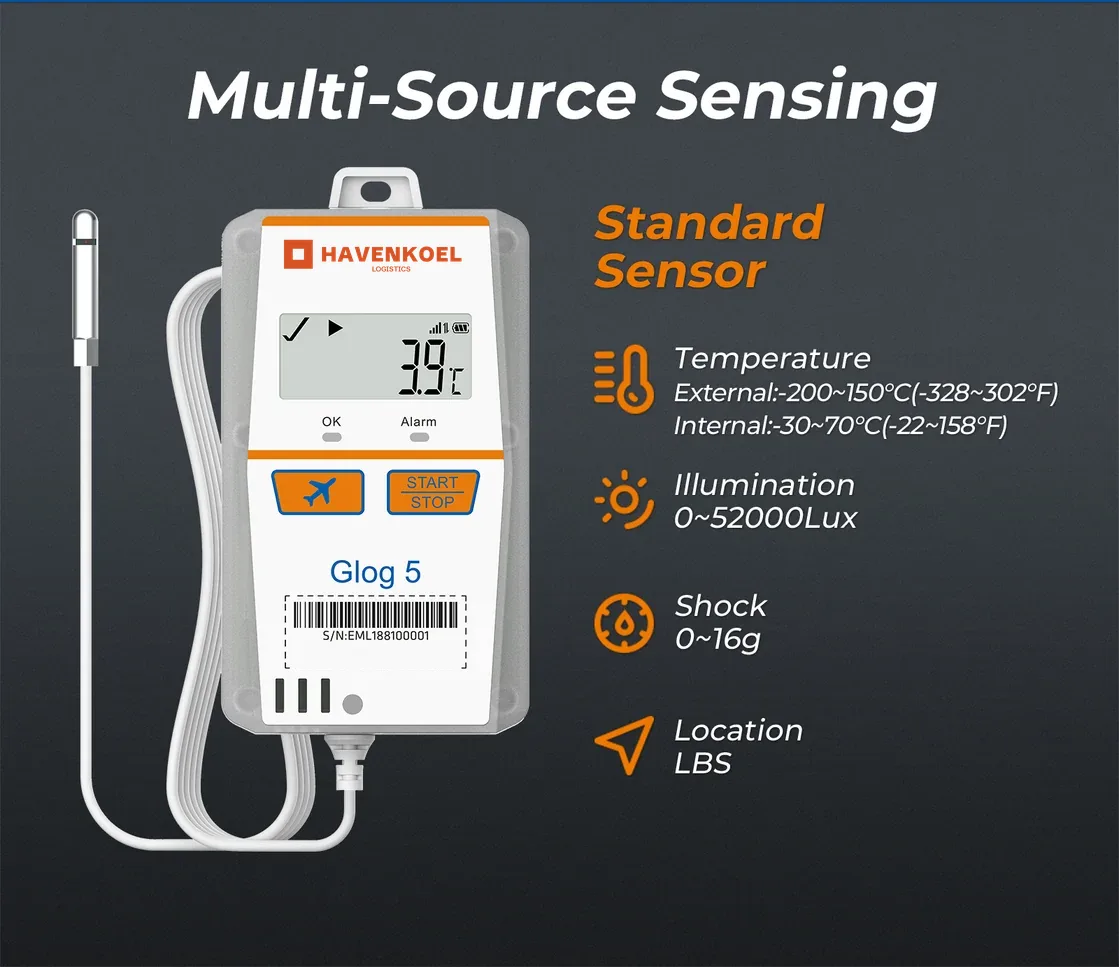
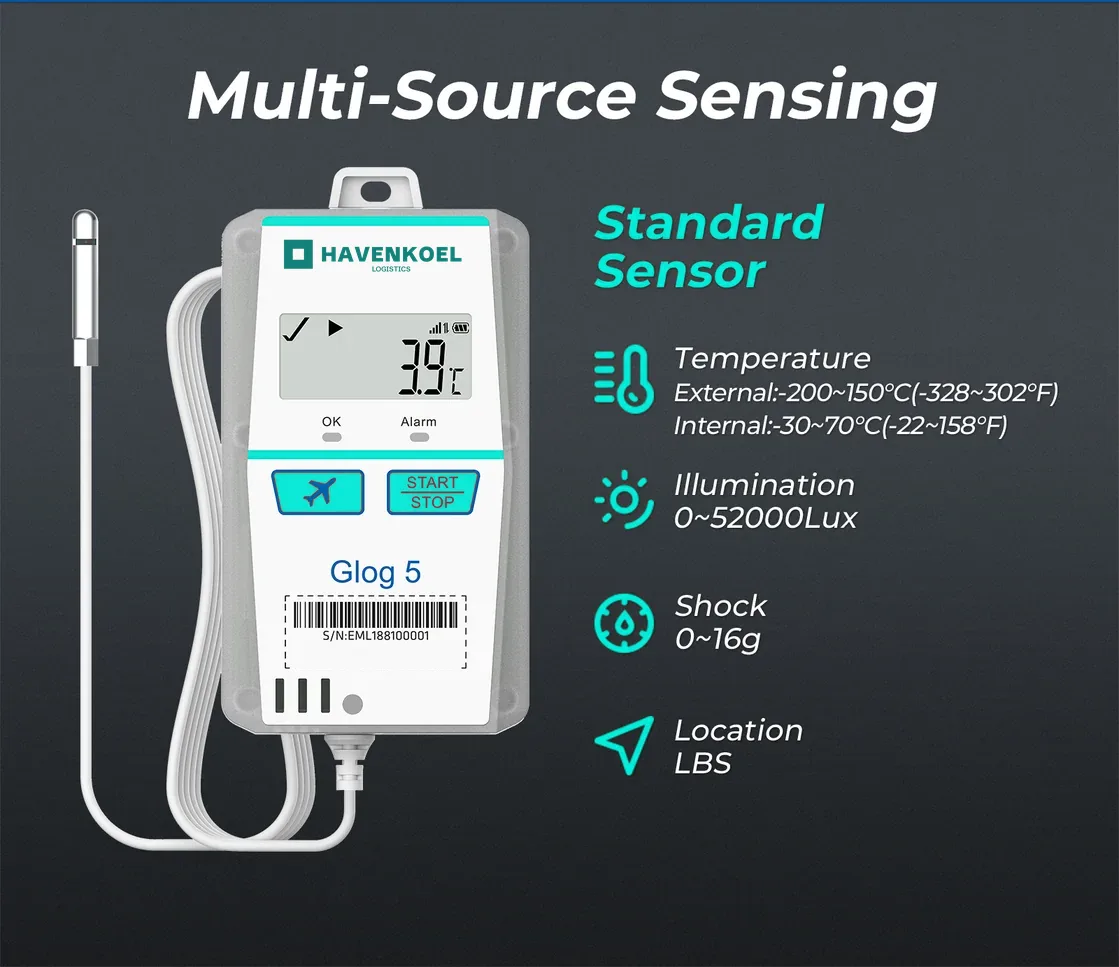
usb-logger: recolour the manufacturer's orange to each example brand
Every logger image now carries its example brand's colour instead of the
manufacturer's signature orange, on the device and in the spec-graphic headings.

Claude-Session: https://claude.ai/code/session_01DNRz1cU7szJ2nerYM86THT

diff --git a/usb-logger.html b/usb-logger.html
@@ -627,7 +627,8 @@
 <!-- Card figures: the manufacturer's product pages and spec graphics (sources in CLAUDE.md).
      The images are white-labelled: brand header cropped, the logo on each logger replaced by a
      different made-up example brand (Veldvers, Polderpharma, Noordvries, Slagerij Kroon,
-     Havenkoel, Zuidbloem) to show how a customer's own logo looks on it. The LogEt 1 graphic shows its WHO PQS listing (E006/083) —
+     Havenkoel, Zuidbloem) to show how a customer's own logo looks on it; the manufacturer's
+     orange is recoloured to each example brand's colour. The LogEt 1 graphic shows its WHO PQS listing (E006/083) —
      the page text deliberately makes no PQS claim of its own.
      LogEt 260 (reusable 4G) is wanted here too; add its card once there is an image for it. -->
 <section class="s" id="loggers">

diff --git a/CLAUDE.md b/CLAUDE.md
@@ -339,7 +339,8 @@ illustration for a real photo, delete `.draftbar` + its CSS, flip robots to
 `assets/loggers/` with Elitech's orange header bar cropped off, the logo and web address on each
 logger painted out, and a **different fictional example brand** on each image where the logo was
 (Veldvers hero, Polderpharma LogEt 1, Noordvries RC-17, Slagerij Kroon RC-5, Havenkoel Glog 5,
-Zuidbloem CTA cutout; card `.maker` reads "Voorbeeld: …"). Keep them invented — never a real company (the
+Zuidbloem CTA cutout; card `.maker` reads "Voorbeeld: …"). Elitech's orange is recoloured to each
+example brand's colour too (green, blue, teal, red, magenta), on the devices and the spec-graphic text. Keep them invented — never a real company (the
 `elitech-*` originals were removed; they are in git history). Copy says "beproefde hardware",
 "gratis uitleessoftware" (not ElitechLog), "specificaties van de fabrikant"; Product JSON-LD `brand` is FahCel Dataloggers. Model names
 (LogEt 1, RC-17, RC-5, Glog 5) stay. Everything below describes where the hardware and
